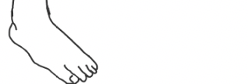
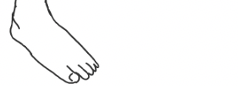
added legs and fixed all

Changed region(s): [[0.0294, 0.0, 0.4412, 1.0]]

diff --git a/src/screens/FrontHomuncScreen.js b/src/screens/FrontHomuncScreen.js
@@ -9,30 +9,44 @@ const clickHandler = (bodyPart) => {
 
 const FrontHomuncScreen = ({}) => {
     return (
-        <ScrollView>
-            <TouchableOpacity onPress={() => clickHandler("Neck")}>
-                <Image style={styles.tinyNeck} source={require('../../assets/New/Head.png')} />
-            </TouchableOpacity>
-            <TouchableOpacity onPress={() => clickHandler("Neck")}>
-                <Image style={styles.tinyNeck} source={require('../../assets/New/ChestTop.png')} />
-            </TouchableOpacity>
-            <TouchableOpacity onPress={() => clickHandler("Neck")}>
-                <Image style={styles.chest} source={require('../../assets/New/FrontMiddle.png')} />
-            </TouchableOpacity>
-            <TouchableOpacity onPress={() => clickHandler("Neck")}>
-                <Image style={styles.chest} source={require('../../assets/New/FrontBottom.png')} />
-            </TouchableOpacity>
-            <View style = {{flexDirection: 'row', justifyContent: 'center'}}>
-                <View style={{flex: 0.35}}>
-                    <TouchableOpacity onPress={() => clickHandler("Left Knee")}>
-                        <Image style={styles.leg} source={require('../../assets/New/RightUL.png')} />
-                    </TouchableOpacity>
-                </View>
-                <View style={{flex: 0.35}}>
-                    <TouchableOpacity onPress={() => clickHandler("Left Knee")}>
-                        <Image style={styles.leg} source={require('../../assets/New/LeftUL.png')} />
-                    </TouchableOpacity>
-                </View>
+        <ScrollView persistentScrollbar={true}>
+            <View style={{backgroundColor: 'pink'}}>
+                <TouchableOpacity onPress={() => clickHandler("Neck")}>
+                    <Image style={styles.tinyNeck} source={require('../../assets/New/Head.png')} />
+                </TouchableOpacity>
+                <TouchableOpacity onPress={() => clickHandler("chest")}>
+                    <Image style={styles.tinyNeck} source={require('../../assets/New/ChestTop.png')} />
+                </TouchableOpacity>
+                <TouchableOpacity onPress={() => clickHandler("front")}>
+                    <Image style={styles.chest} source={require('../../assets/New/FrontMiddle.png')} />
+                </TouchableOpacity>
+                <TouchableOpacity onPress={() => clickHandler("bottom")}>
+                    <Image style={styles.chest} source={require('../../assets/New/FrontBottom.png')} />
+                </TouchableOpacity>
+            </View>
+            <View style = {{flexDirection: 'row', justifyContent: 'center', backgroundColor: 'white'}}>
+                <TouchableOpacity onPress={() => clickHandler("Left Knee")}>
+                    <Image style={styles.leg} source={require('../../assets/New/RightUL.png')} />
+                </TouchableOpacity>
+                <TouchableOpacity onPress={() => clickHandler("Left Knee")}>
+                    <Image style={styles.leg} source={require('../../assets/New/LeftUL.png')} />
+                </TouchableOpacity>
+            </View>
+            <View style={{flexDirection: 'row', justifyContent: 'center', backgroundColor: 'white'}}>
+                <TouchableOpacity onPress={() => clickHandler("Left Knee")}>
+                    <Image style={styles.leg} source={require('../../assets/New/RightLL.png')} />
+                </TouchableOpacity>
+                <TouchableOpacity onPress={() => clickHandler("Right Knee")}>
+                    <Image style={styles.leg} source={require('../../assets/New/LeftLL.png')} />
+                </TouchableOpacity>
+            </View>
+            <View style={{flexDirection: 'row', justifyContent: 'center', backgroundColor: 'white'}}>
+                <TouchableOpacity onPress={() => clickHandler("Left Knee")}>
+                    <Image style={styles.foot} source={require('../../assets/New/RightFoot.png')} />
+                </TouchableOpacity>
+                <TouchableOpacity onPress={() => clickHandler("Right Knee")}>
+                    <Image style={styles.foot} source={require('../../assets/New/LeftFoot.png')} />
+                </TouchableOpacity>
             </View>
         </ScrollView>
     );
@@ -50,10 +64,13 @@ const styles = StyleSheet.create({
         resizeMode: 'contain',
     },
     leg: {
-        //alignSelf: 'flex-end',
-        //width: Dimensions.get("window").width,
-        width: 120,
-        height: 75,
+        width: 140,
+        height: 93,
+        resizeMode: 'contain',
+    },
+    foot: {
+        width: 138,
+        height: 49,
         resizeMode: 'contain',
     },
 
